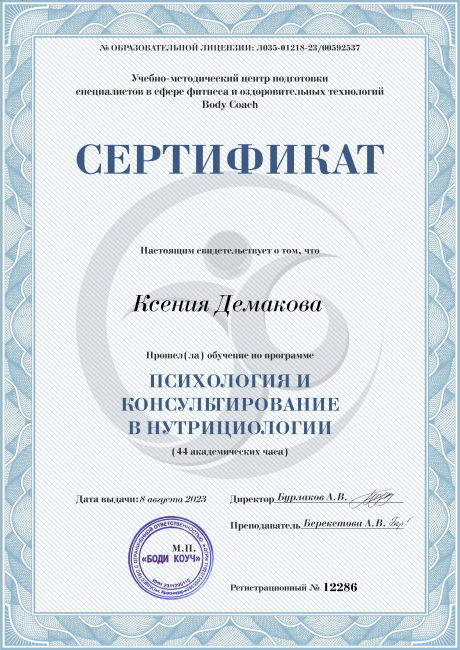
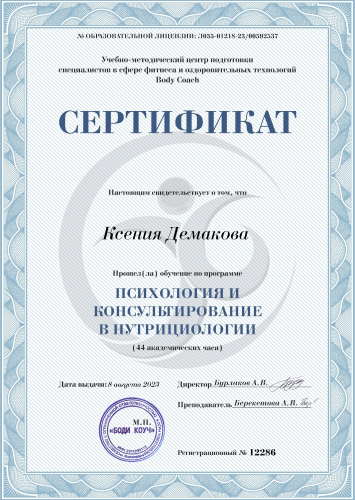
dev

diff --git a/src/data/pictures.ts b/src/data/pictures.ts
@@ -39,6 +39,16 @@ export const diploms = [
     page: diplomsRoutes.mac,
   },
   {
+    title: "Терапия принятия и ответственности (АСТ-терапия)",
+    src: "/assets/images/diploms/ast.jpg",
+    page: diplomsRoutes.ast,
+  },
+  {
+    title: "Психотерапия ПТСР. Специфика работы со взрослыми",
+    src: "/assets/images/diploms/ptsr.jpg",
+    page: diplomsRoutes.ptsr,
+  },
+  {
     title: "Квалификация - фельдшер по специальности «Лечебное дело»",
     src: "/assets/images/diploms/lechebnoe_delo_1.jpg",
     page: diplomsRoutes.lechebnoe_delo,

diff --git a/src/data/routes.ts b/src/data/routes.ts
@@ -9,6 +9,8 @@ export const diplomsRoutes: {
   eating_behavior: "/diploms/eating-behavior/",
   teacher: "/diploms/teacher/",
   mac: "/diploms/mac/",
+  ast: "/diploms/ast/",
+  ptsr: "/diploms/ptsr/",
 };
 
 export const routesList = (routes: { [key: string]: string }) => {

diff --git a/src/components/NavigationInFooter/styles.module.css b/src/components/NavigationInFooter/styles.module.css
@@ -18,6 +18,10 @@
   white-space: nowrap;
 }
 
+.link:hover {
+  color: #d60015 !important;
+}
+
 @media (max-width: 860px) {
   .list {
     margin-bottom: 60px;
